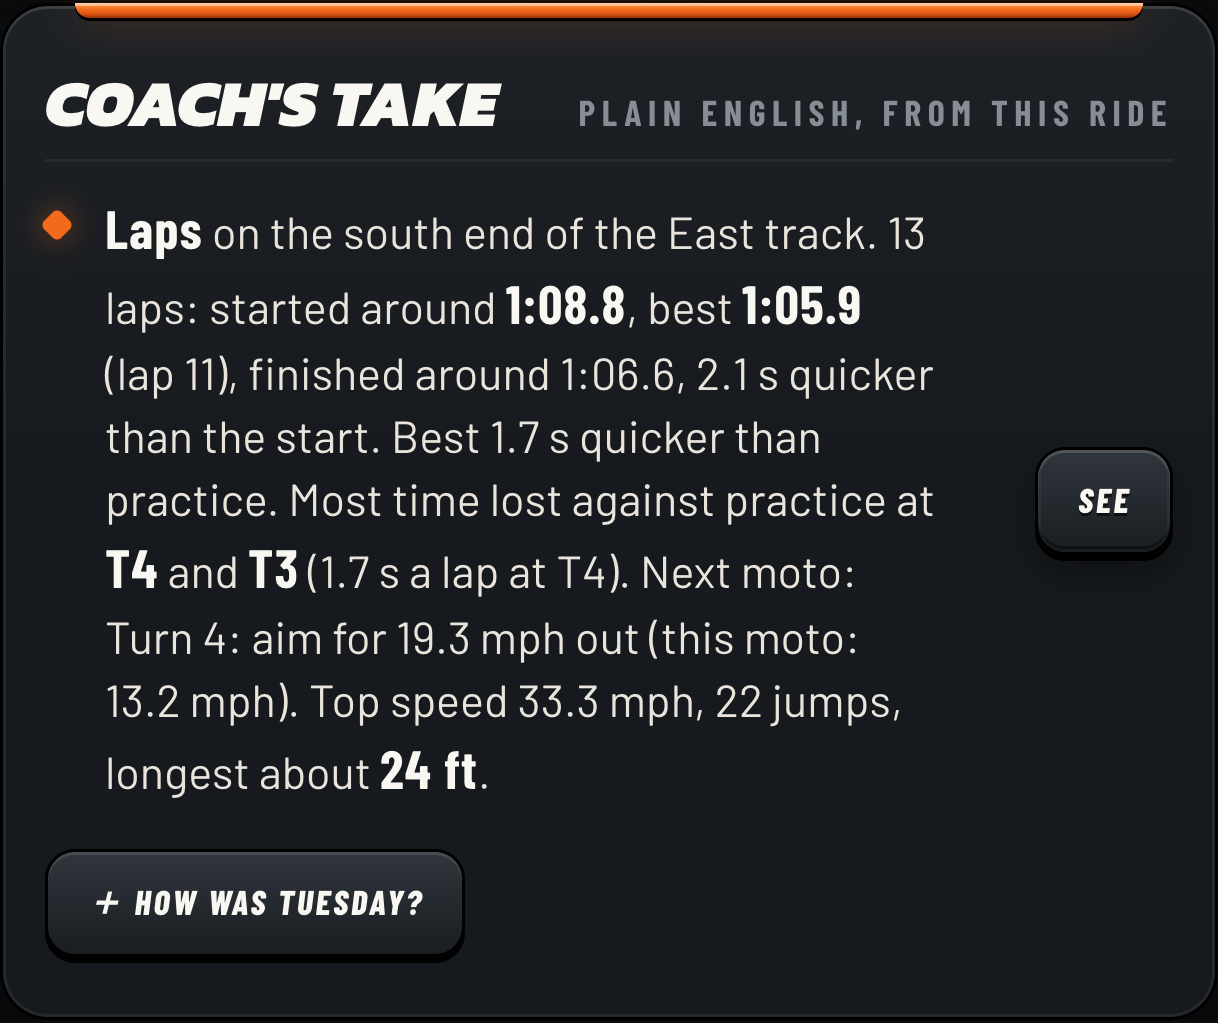
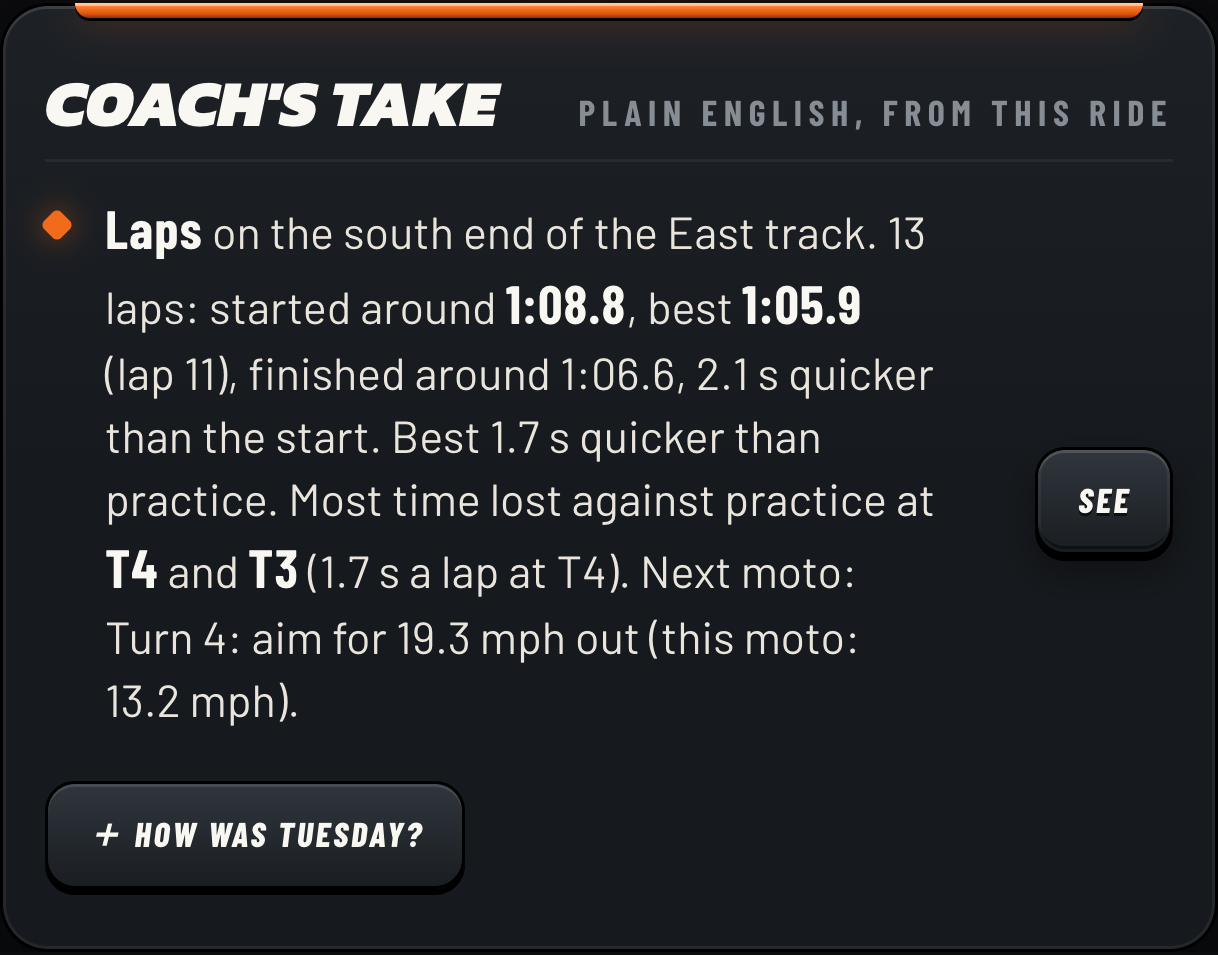
Home page: founding-families sign-up (opens an email, nothing stored), coach picture without the jumps line, trainers card says side by side is on the way, full share-image address

diff --git a/index.html b/index.html
@@ -7,7 +7,10 @@
 <meta name="description" content="Every day, every lap, every turn, and whether it got better since last week. GPS practice tracking for motocross riders, parents and trainers.">
 <meta property="og:title" content="Moto Tools">
 <meta property="og:description" content="Race day, practice day, every day. GPS lap tracking for moto families.">
-<meta property="og:image" content="img/share.png">
+<meta property="og:image" content="https://mototoolsmx.com/img/share.png">
+<meta property="og:url" content="https://mototoolsmx.com/">
+<meta property="og:type" content="website">
+<meta name="twitter:card" content="summary_large_image">
 <link rel="icon" href="img/icon.png">
 <link rel="preconnect" href="https://fonts.googleapis.com">
 <link rel="preconnect" href="https://fonts.gstatic.com" crossorigin>
@@ -85,6 +88,18 @@
   .shots figcaption { margin-top: 10px; color: var(--muted); font-size: 16px; }
   .shots figcaption b { color: var(--ink); font-weight: 500; }
   .btn.ghost { background: transparent; color: var(--ink); border: 2px solid var(--line); margin-left: 8px; }
+  .join .fine { font-size: 15px; margin-top: -14px; }
+  .signup {
+    display: grid; grid-template-columns: 1fr 1fr; gap: 14px 18px; max-width: 620px; margin: 0 auto 28px; text-align: left;
+  }
+  .signup label { display: grid; gap: 6px; color: var(--muted); font-size: 15px; }
+  .signup input, .signup select {
+    font: 400 17px Barlow, system-ui, sans-serif; color: var(--ink); background: var(--bg);
+    border: 1px solid var(--line); border-radius: 10px; padding: 11px 12px; width: 100%;
+  }
+  .signup input:focus, .signup select:focus { outline: 2px solid var(--orange); outline-offset: 1px; }
+  .signup button { grid-column: 1 / -1; justify-self: center; border: 0; cursor: pointer; margin-top: 8px; }
+  .signup .fine { grid-column: 1 / -1; text-align: center; margin: 0; }
 
   .post { padding: 8px 0 64px; }
   .post h2 { font-size: 34px; font-weight: 800; text-transform: uppercase; text-align: center; margin-bottom: 8px; }
@@ -112,6 +127,7 @@
     .shots, .post-grid { max-width: 420px; margin: 0 auto; }
     .post-grid { gap: 32px; }
     .btn.ghost { margin: 12px 0 0; }
+    .signup { grid-template-columns: 1fr; }
   }
 </style>
 </head>
@@ -138,7 +154,7 @@
       <p>One rider, one night at the track. Everything below came off the GPS box.</p>
       <div class="shots">
         <figure><img src="img/report.png" alt="Training report: best lap 1:05.9, 29 laps, top speed 35.6 mph" width="1218" height="588" loading="lazy"><figcaption><b>The night at a glance.</b> Best lap, laps, top speed.</figcaption></figure>
-        <figure><img src="img/coach.png" alt="Coach's take: most time lost at turn 4, next moto aim for 19.3 mph out of turn 4" width="1218" height="1023" loading="lazy"><figcaption><b>What to work on next moto.</b> Where the time went, in plain English.</figcaption></figure>
+        <figure><img src="img/coach.png" alt="Coach's take: most time lost at turn 4, next moto aim for 19.3 mph out of turn 4" width="1218" height="955" loading="lazy"><figcaption><b>What to work on next moto.</b> Where the time went, in plain English.</figcaption></figure>
         <figure><img src="img/starts.png" alt="Start practice table: seven starts timed to 30 and 65 feet, best 2.67 seconds to 65 feet" width="1104" height="1375" loading="lazy"><figcaption><b>Every start, timed.</b> Seven practice starts to 65 ft, best one highlighted.</figcaption></figure>
       </div>
     </section>
@@ -157,16 +173,40 @@
       <h2>Built for moto families</h2>
       <div class="cards">
         <div class="card"><h3>Parents</h3><p>See what happened out there without standing at every corner with a stopwatch.</p></div>
-        <div class="card"><h3>Trainers</h3><p>Each rider's sections side by side, and a clear picture of who's improving where.</p></div>
+        <div class="card"><h3>Trainers</h3><p>Notes on what each rider worked on and what's next, so nothing gets lost between sessions or trainers. All your riders side by side is on the way.</p></div>
         <div class="card"><h3>Riders</h3><p>Beat your own best turn. Points and a game of your home track are on the way.</p></div>
       </div>
     </section>
 
-    <section class="join">
-      <h2>Now testing with a few riders</h2>
-      <p>We're running Moto Tools with a small group of riders this season. Want in, or run a track or training program? Email or message us.</p>
-      <a class="btn" href="mailto:hello@mototoolsmx.com">hello@mototoolsmx.com</a><a class="btn ghost" href="https://www.instagram.com/mototoolsmx/">@mototoolsmx</a>
+    <section class="join" id="join">
+      <h2>Founding families</h2>
+      <p>I'm Kam, a race dad and former bike shop owner. I built Moto Tools for my own son's practice. This winter about 10 more families get it free, in exchange for honest feedback. In December I'll ask what it's worth to you before setting a price.</p>
+      <p class="fine">Works with a Dragy or RaceBox GPS box in the bar pad. Today it syncs from Chrome on a laptop or an Android phone. The iPhone app is in testing.</p>
+      <form class="signup" id="signup">
+        <label>Your name<input name="name" autocomplete="name" required></label>
+        <label>I'm a<select name="who">
+          <option>Parent</option><option>Rider</option><option>Trainer or program</option><option>Track or camp</option>
+        </select></label>
+        <label>Rider's first name and class<input name="rider" placeholder="Like: Sam, 65cc"></label>
+        <label>Where you ride most<input name="track" placeholder="Track name"></label>
+        <label>GPS box<select name="box">
+          <option>Not yet</option><option>Dragy Lite</option><option>Dragy Pro</option><option>RaceBox Micro</option><option>Something else</option>
+        </select></label>
+        <label>Phone (optional)<input name="phone" type="tel" autocomplete="tel"></label>
+        <button class="btn" type="submit">Count me in</button>
+        <p class="fine">This opens your email app with your answers filled in. Nothing is saved on this site.</p>
+      </form>
+      <p>Run a training program, camp or track? Ask about a pilot for your riders.</p>
+      <a class="btn ghost" href="mailto:hello@mototoolsmx.com">hello@mototoolsmx.com</a><a class="btn ghost" href="https://www.instagram.com/mototoolsmx/">@mototoolsmx</a>
     </section>
+    <script>
+      document.getElementById('signup').addEventListener('submit', event => {
+        event.preventDefault();
+        const f = new FormData(event.target), v = k => (f.get(k) || '').trim();
+        const body = [`Name: ${v('name')}`, `I'm a: ${v('who')}`, `Rider and class: ${v('rider')}`, `Where we ride: ${v('track')}`, `GPS box: ${v('box')}`, `Phone: ${v('phone')}`].join('\r\n');
+        location.href = `mailto:hello@mototoolsmx.com?subject=${encodeURIComponent(`Founding families: ${v('name')}`)}&body=${encodeURIComponent(body)}`;
+      });
+    </script>
 
     <footer>© 2026 Moto Tools · Map tiles © OpenStreetMap contributors</footer>
   </div>
